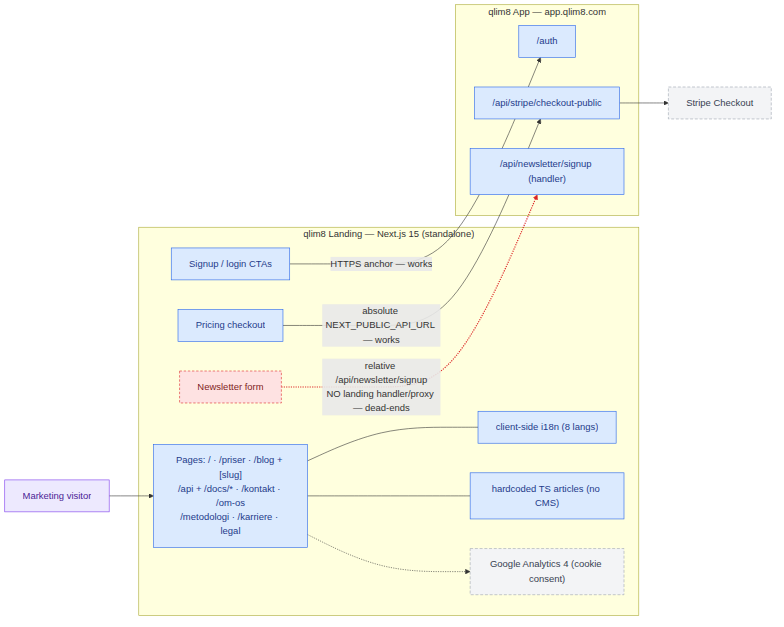
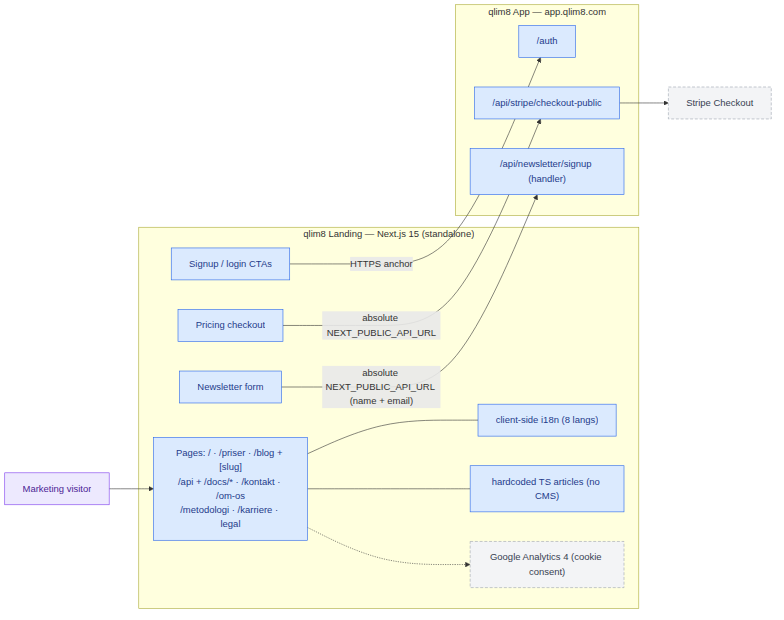
fix(newsletter): post signup to the app's absolute API URL
The landing newsletter forms POSTed to a relative /api/newsletter/signup,
but the landing site has no Next.js API route and its nginx proxies every
request to the Next container — so the call 404'd instead of reaching the
app. Point both NewsletterForm and NewsletterSignupDialog at the absolute
app URL (NEXT_PUBLIC_API_URL ?? https://app.qlim8.com), mirroring the
pricing checkout (CORS already allows the qlim8.com origin). The email-only
dialog now also sends the `name` the app's endpoint requires (derived from
the email local-part).

Updates the architecture docs + diagram 6 (en/da) to reflect the fix.

Claude-Session: https://claude.ai/code/session_01DmsmDfL1BVYPiRb8yirr8f

diff --git a/src/components/public/NewsletterSignupDialog.tsx b/src/components/public/NewsletterSignupDialog.tsx
@@ -20,10 +20,14 @@ export function NewsletterSignupDialog() {
     setLoading(true)
     setMessage(null)
     try {
-      const res = await fetch('/api/newsletter/signup', {
+      // The newsletter endpoint lives on the app, not on this landing site — use an
+      // absolute URL (same pattern as the pricing checkout). The app requires a name,
+      // but this dialog only collects an email, so derive a display name from it.
+      const API_BASE = process.env.NEXT_PUBLIC_API_URL ?? 'https://app.qlim8.com'
+      const res = await fetch(`${API_BASE}/api/newsletter/signup`, {
         method: 'POST',
         headers: { 'Content-Type': 'application/json' },
-        body: JSON.stringify({ email }),
+        body: JSON.stringify({ name: email.split('@')[0], email }),
       })
       const data = await res.json()
       if (res.ok && data.success) {

diff --git a/src/components/public/NewsletterForm.tsx b/src/components/public/NewsletterForm.tsx
@@ -13,7 +13,11 @@ export function NewsletterForm() {
     setLoading(true)
     setMessage(null)
     try {
-      const res = await fetch('/api/newsletter/signup', {
+      // The newsletter endpoint lives on the app, not on this landing site — use an
+      // absolute URL (same pattern as the pricing checkout). A relative path would
+      // 404 against the Next server, which has no /api routes.
+      const API_BASE = process.env.NEXT_PUBLIC_API_URL ?? 'https://app.qlim8.com'
+      const res = await fetch(`${API_BASE}/api/newsletter/signup`, {
         method: 'POST',
         headers: { 'Content-Type': 'application/json' },
         body: JSON.stringify({ name, email }),

diff --git a/docs/da/architecture/system-architecture.md b/docs/da/architecture/system-architecture.md
@@ -467,30 +467,25 @@ flowchart LR
   pages --- i18n
   pages --- content
   pages -.-> ga
-  cta -->|"HTTPS anchor — works"| appauth
-  checkout -->|"absolute NEXT_PUBLIC_API_URL — works"| appcheckout --> stripe
-  nlform -.->|"relative /api/newsletter/signup<br/>NO landing handler/proxy — dead-ends"| appnews
-
-  linkStyle 7 stroke:#dc2626,stroke-width:2px;
+  cta -->|"HTTPS anchor"| appauth
+  checkout -->|"absolute NEXT_PUBLIC_API_URL"| appcheckout --> stripe
+  nlform -->|"absolute NEXT_PUBLIC_API_URL (name + email)"| appnews
 
   classDef internal fill:#dbeafe,stroke:#2563eb,color:#1e3a8a;
   classDef external fill:#f3f4f6,stroke:#9ca3af,color:#374151,stroke-dasharray:5 3;
   classDef persona fill:#ede9fe,stroke:#7c3aed,color:#4c1d95;
-  classDef issue fill:#fee2e2,stroke:#dc2626,color:#7f1d1d,stroke-dasharray:4 3;
   class visitor persona;
-  class pages,i18n,content,checkout,cta,appauth,appcheckout,appnews internal;
+  class pages,i18n,content,checkout,cta,nlform,appauth,appcheckout,appnews internal;
   class ga,stripe external;
-  class nlform issue;
 ```
 
 _Eksporter: [SVG](../../diagrams/svg/06-landing-bridges.svg) · [PNG](../../diagrams/png/06-landing-bridges.png) · [Mermaid](../../diagrams/mmd/06-landing-bridges.mmd) · [Excalidraw](../../diagrams/excalidraw/06-landing-bridges.excalidraw)_
 
-> ⚠️ **Kendt hul (rød kant).** `NewsletterForm.tsx` POST'er til en **relativ**
-> `/api/newsletter/signup`. Landing-sitet har ingen Next.js API-rute, og dets `nginx.conf`
-> proxy'er alt til Next-containeren — der er ingen `/api`-rewrite til app'en — så requestet
-> rammer `qlim8.com/api/newsletter/signup` og giver 404. Pricing-checkout bruger derimod korrekt
-> den **absolutte** `NEXT_PUBLIC_API_URL` (`app.qlim8.com`). Dokumenteret her, ikke stille rettet.
-> Se note 1 i §7.
+> ✅ **Rettet.** `NewsletterForm.tsx` og `NewsletterSignupDialog.tsx` POST'er nu til den
+> **absolutte** app-URL (`NEXT_PUBLIC_API_URL ?? https://app.qlim8.com`) — samme mønster som
+> pricing-checkout — så requestet rammer app'ens `/api/newsletter/signup`-handler (CORS tillader
+> allerede `qlim8.com`-origin). Den email-only dialog sender nu også det påkrævede `name`.
+> Tidligere POST'ede den til en relativ sti, der endte blindt i Next-serveren. Se note 1 i §8.
 
 Mappen `legacy/` i landing-repoet er en backup fra før omskrivningen og er bevidst udeladt.
 
@@ -690,10 +685,10 @@ _Eksporter: [SVG](../../diagrams/svg/10-seq-report-job.svg) · [PNG](../../diagr
 
 ## 8. Arkitektur-noter & kendte huller
 
-1. **Nyhedsbrev-broen er brudt (kendt hul).** Landing POST'er til en relativ
-   `/api/newsletter/signup` uden handler på landing-siden, uden Next-rewrite og uden nginx
-   `/api`-proxy → den når aldrig app'en. Det tilsigtede mål er app'ens `/api/newsletter`-handler
-   (brug en absolut `NEXT_PUBLIC_API_URL` ligesom checkout gør, eller tilføj en rewrite/proxy).
+1. **Nyhedsbrev-broen — rettet.** Landing-formularerne POST'er nu til den **absolutte** app-URL
+   (`NEXT_PUBLIC_API_URL ?? https://app.qlim8.com`) og rammer app'ens `/api/newsletter/signup`-handler;
+   den email-only dialog sender nu også det påkrævede `name`. (Tidligere endte en relativ
+   `/api/newsletter/signup` blindt i Next-serveren — ingen handler, ingen `/api`-proxy.)
 2. **Én proces.** Statisk SPA-servering, alle fire API-flader, alle workere og Playwright-poolen
    lever i én PM2 fork-instans. Der er ingen separat worker-/render-service.
 3. **pg-boss er ikke separat infrastruktur.** Den kører i app'ens PostgreSQL under `pgboss`-skemaet.

diff --git a/docs/en/architecture/system-architecture.md b/docs/en/architecture/system-architecture.md
@@ -466,30 +466,25 @@ flowchart LR
   pages --- i18n
   pages --- content
   pages -.-> ga
-  cta -->|"HTTPS anchor — works"| appauth
-  checkout -->|"absolute NEXT_PUBLIC_API_URL — works"| appcheckout --> stripe
-  nlform -.->|"relative /api/newsletter/signup<br/>NO landing handler/proxy — dead-ends"| appnews
-
-  linkStyle 7 stroke:#dc2626,stroke-width:2px;
+  cta -->|"HTTPS anchor"| appauth
+  checkout -->|"absolute NEXT_PUBLIC_API_URL"| appcheckout --> stripe
+  nlform -->|"absolute NEXT_PUBLIC_API_URL (name + email)"| appnews
 
   classDef internal fill:#dbeafe,stroke:#2563eb,color:#1e3a8a;
   classDef external fill:#f3f4f6,stroke:#9ca3af,color:#374151,stroke-dasharray:5 3;
   classDef persona fill:#ede9fe,stroke:#7c3aed,color:#4c1d95;
-  classDef issue fill:#fee2e2,stroke:#dc2626,color:#7f1d1d,stroke-dasharray:4 3;
   class visitor persona;
-  class pages,i18n,content,checkout,cta,appauth,appcheckout,appnews internal;
+  class pages,i18n,content,checkout,cta,nlform,appauth,appcheckout,appnews internal;
   class ga,stripe external;
-  class nlform issue;
 ```
 
 _Exports: [SVG](../../diagrams/svg/06-landing-bridges.svg) · [PNG](../../diagrams/png/06-landing-bridges.png) · [Mermaid](../../diagrams/mmd/06-landing-bridges.mmd) · [Excalidraw](../../diagrams/excalidraw/06-landing-bridges.excalidraw)_
 
-> ⚠️ **Known gap (red edge).** `NewsletterForm.tsx` POSTs to a **relative**
-> `/api/newsletter/signup`. The landing site has no Next.js API route and its
-> `nginx.conf` proxies everything to the Next container — there is no `/api` rewrite to the app —
-> so this request resolves to `qlim8.com/api/newsletter/signup` and 404s. The pricing checkout,
-> by contrast, correctly uses the **absolute** `NEXT_PUBLIC_API_URL` (`app.qlim8.com`). Documented
-> here, not silently patched. See note 1 in §7.
+> ✅ **Fixed.** `NewsletterForm.tsx` and `NewsletterSignupDialog.tsx` now POST to the
+> **absolute** app URL (`NEXT_PUBLIC_API_URL ?? https://app.qlim8.com`) — the same pattern as the
+> pricing checkout — so the request reaches the app's `/api/newsletter/signup` handler (CORS
+> already allows the `qlim8.com` origin). The email-only dialog now also sends the required `name`.
+> Previously it POSTed to a relative path that dead-ended at the Next server. See note 1 in §8.
 
 The `legacy/` directory in the landing repo is a pre-rewrite backup and is intentionally omitted.
 
@@ -689,10 +684,10 @@ _Exports: [SVG](../../diagrams/svg/10-seq-report-job.svg) · [PNG](../../diagram
 
 ## 8. Architectural notes & known gaps
 
-1. **Newsletter bridge is broken (known gap).** Landing posts to a relative
-   `/api/newsletter/signup` with no landing-side handler, no Next rewrite, and no nginx `/api`
-   proxy → it never reaches the app. The intended target is the app's `/api/newsletter` handler
-   (use an absolute `NEXT_PUBLIC_API_URL` like the checkout does, or add a rewrite/proxy).
+1. **Newsletter bridge — fixed.** The landing forms now POST to the **absolute** app URL
+   (`NEXT_PUBLIC_API_URL ?? https://app.qlim8.com`) and reach the app's `/api/newsletter/signup`
+   handler; the email-only dialog now also sends the required `name`. (Previously a relative
+   `/api/newsletter/signup` dead-ended at the Next server — no handler, no `/api` proxy.)
 2. **One process.** SPA static serving, all four API surfaces, every worker, and the Playwright
    pool live in a single PM2 fork instance. There is no separate worker/render service.
 3. **pg-boss is not separate infra.** It runs in the app's PostgreSQL under the `pgboss` schema.

diff --git a/docs/README.md b/docs/README.md
@@ -13,6 +13,6 @@ These are **synced copies**. The canonical, always-current architecture docs liv
 [**qlim8-app**](https://github.com/madsdlund-nielsen/qlim8-app/tree/main/docs) repository
 (`docs/{en,da}/architecture/`). Last synced: 2026-06-29.
 
-> Note: the system-context and landing diagrams flag a known gap — the landing newsletter form
-> POSTs to a relative `/api/newsletter/signup` that has no handler/proxy on the landing side, so
-> it does not reach the app. See §5 and §8 of the architecture doc.
+> Note: the newsletter signup bridge was fixed in this change — the landing forms now POST to the
+> absolute app URL (`NEXT_PUBLIC_API_URL ?? https://app.qlim8.com`) and reach the app's
+> `/api/newsletter/signup` handler. See §5 and §8 of the architecture doc.